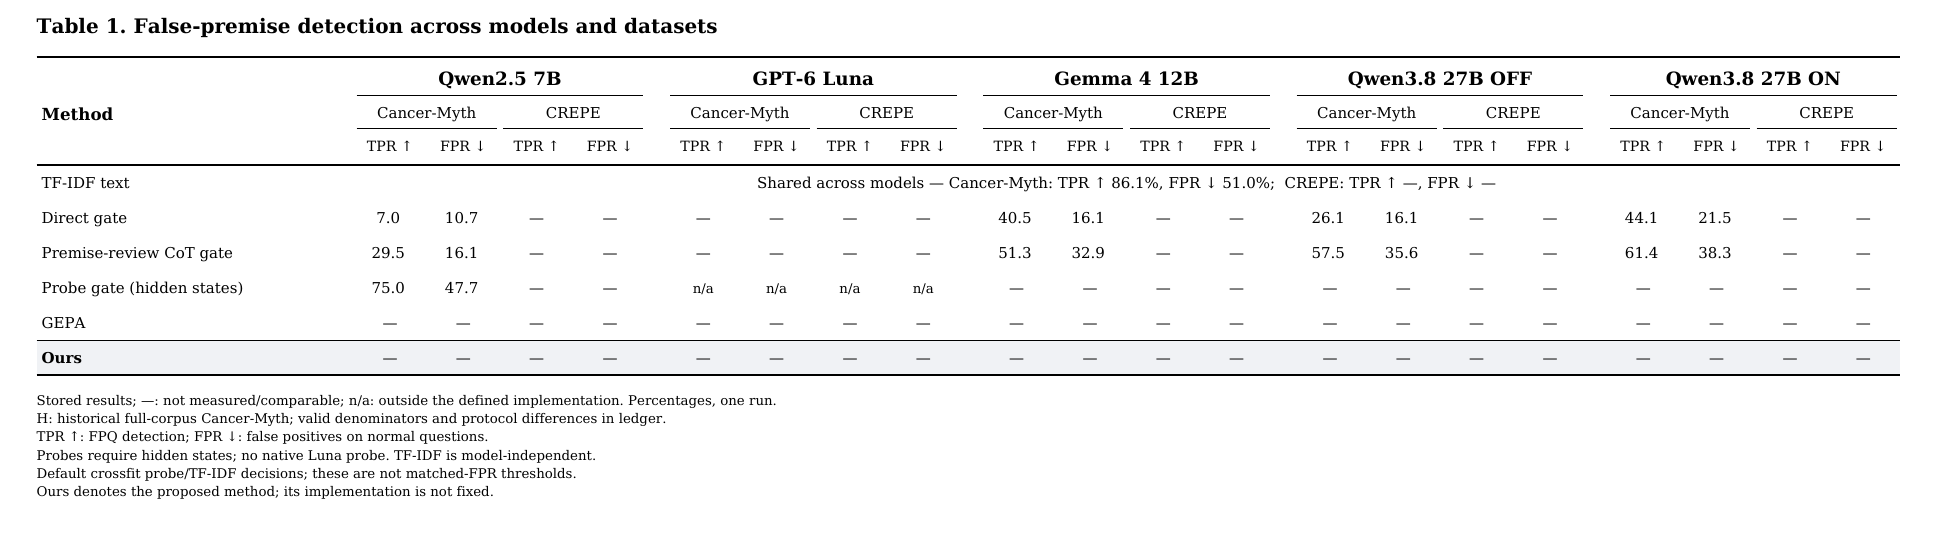
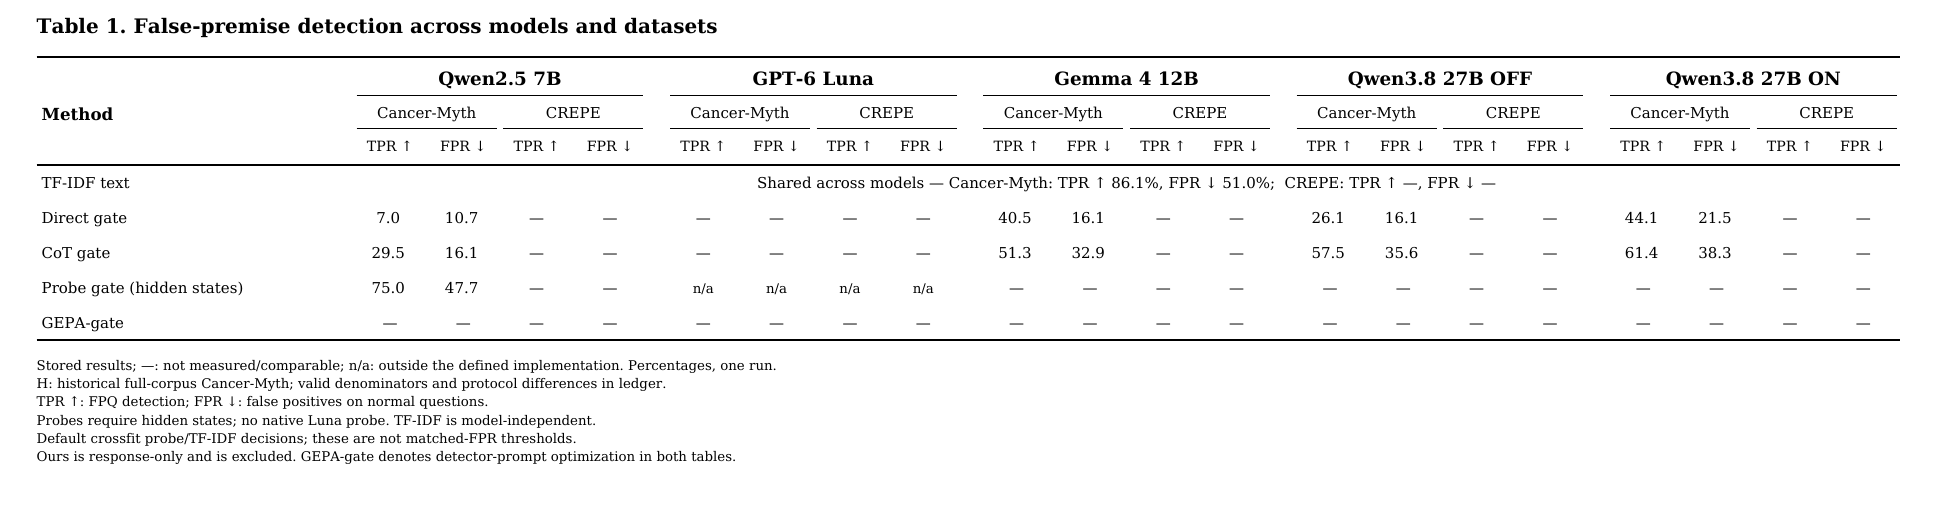
Align detection table roster and document grouped three-fold evaluation

diff --git a/docs/reviews/paper_tables_2026-10-06/table1.tex b/docs/reviews/paper_tables_2026-10-06/table1.tex
@@ -12,13 +12,11 @@
 \midrule
 TF-IDF text & \multicolumn{20}{c}{Shared across models \textemdash Cancer-Myth: TPR $\uparrow$ 86.1\%, FPR $\downarrow$ 51.0\%;  CREPE: TPR $\uparrow$ \textemdash, FPR $\downarrow$ \textemdash} \\
 Direct gate & 7.0 & 10.7 & \textemdash & \textemdash & \textemdash & \textemdash & \textemdash & \textemdash & 40.5 & 16.1 & \textemdash & \textemdash & 26.1 & 16.1 & \textemdash & \textemdash & 44.1 & 21.5 & \textemdash & \textemdash \\
-Premise-review CoT gate & 29.5 & 16.1 & \textemdash & \textemdash & \textemdash & \textemdash & \textemdash & \textemdash & 51.3 & 32.9 & \textemdash & \textemdash & 57.5 & 35.6 & \textemdash & \textemdash & 61.4 & 38.3 & \textemdash & \textemdash \\
+CoT gate & 29.5 & 16.1 & \textemdash & \textemdash & \textemdash & \textemdash & \textemdash & \textemdash & 51.3 & 32.9 & \textemdash & \textemdash & 57.5 & 35.6 & \textemdash & \textemdash & 61.4 & 38.3 & \textemdash & \textemdash \\
 Probe gate (hidden states) & 75.0 & 47.7 & \textemdash & \textemdash & n/a & n/a & n/a & n/a & \textemdash & \textemdash & \textemdash & \textemdash & \textemdash & \textemdash & \textemdash & \textemdash & \textemdash & \textemdash & \textemdash & \textemdash \\
-GEPA & \textemdash & \textemdash & \textemdash & \textemdash & \textemdash & \textemdash & \textemdash & \textemdash & \textemdash & \textemdash & \textemdash & \textemdash & \textemdash & \textemdash & \textemdash & \textemdash & \textemdash & \textemdash & \textemdash & \textemdash \\
-\midrule
-\textbf{Ours} & \textemdash & \textemdash & \textemdash & \textemdash & \textemdash & \textemdash & \textemdash & \textemdash & \textemdash & \textemdash & \textemdash & \textemdash & \textemdash & \textemdash & \textemdash & \textemdash & \textemdash & \textemdash & \textemdash & \textemdash \\
+GEPA-gate & \textemdash & \textemdash & \textemdash & \textemdash & \textemdash & \textemdash & \textemdash & \textemdash & \textemdash & \textemdash & \textemdash & \textemdash & \textemdash & \textemdash & \textemdash & \textemdash & \textemdash & \textemdash & \textemdash & \textemdash \\
 \bottomrule
 \end{tabular}}
-\caption{Table 1. False-premise detection across models and datasets. Stored results; \textemdash: not measured/comparable; n/a: outside the defined implementation. Percentages, one run. H: historical full-corpus Cancer-Myth; valid denominators and protocol differences in ledger. TPR $\uparrow$: FPQ detection; FPR $\downarrow$: false positives on normal questions. Probes require hidden states; no native Luna probe. TF-IDF is model-independent. Default crossfit probe/TF-IDF decisions; these are not matched-FPR thresholds. Ours denotes the proposed method; its implementation is not fixed.}
+\caption{Table 1. False-premise detection across models and datasets. Stored results; \textemdash: not measured/comparable; n/a: outside the defined implementation. Percentages, one run. H: historical full-corpus Cancer-Myth; valid denominators and protocol differences in ledger. TPR $\uparrow$: FPQ detection; FPR $\downarrow$: false positives on normal questions. Probes require hidden states; no native Luna probe. TF-IDF is model-independent. Default crossfit probe/TF-IDF decisions; these are not matched-FPR thresholds. Ours is response-only and is excluded. GEPA-gate denotes detector-prompt optimization in both tables.}
 \label{tab:table1}
 \end{table*}

diff --git a/docs/reviews/paper_tables_2026-10-06/table2.tex b/docs/reviews/paper_tables_2026-10-06/table2.tex
@@ -26,6 +26,6 @@ GEPA (both stages) & \textemdash & \textemdash & \textemdash & \textemdash & \te
 \textbf{Ours} & \textemdash & \textemdash & \textemdash & \textemdash & \textemdash & \textemdash & \textemdash & \textemdash & \textemdash & \textemdash & \textemdash & \textemdash & \textemdash & \textemdash & \textemdash & \textemdash & \textemdash & \textemdash & \textemdash & \textemdash \\
 \bottomrule
 \end{tabular}}
-\caption{Table 2. False-premise correction and normal-question preservation. Stored measurements, not completed common-fold results. Planned evaluation pools held-out predictions from common grouped folds. Cancer-Myth: public-model entries use the historical full corpus (up to 583 FPQ / 149 NFP); Luna entries use 99 FPQ / 100 NFP. CREPE: Luna uses 751 FPQ / 2,253 TPQ. Public-model and Luna runs use different judges; see README and result\_sources.md. Direct / CoT gate values use historical label-only routing. They do not measure the newly proposed token-score / review-passing protocol. GEPA values are stored direct-answer test results, not fold reruns. GEPA-gate, both-stage GEPA and Ours remain unmeasured here. All values are score >= 4 (\%), from single runs. Dash = no compatible measurement; n/a = native hidden probe unavailable.}
+\caption{Table 2. False-premise correction and normal-question preservation. Stored measurements, not completed 3-fold results. Planned Cancer-Myth: grouped 3-fold OOF; CREPE: fixed train/dev/test. Cancer-Myth: public-model entries use the historical full corpus (up to 583 FPQ / 149 NFP); Luna entries use 99 FPQ / 100 NFP. CREPE: Luna uses 751 FPQ / 2,253 TPQ. Public-model and Luna runs use different judges; see README and result\_sources.md. Direct / CoT gate values use historical label-only routing. They do not measure the newly proposed token-score / review-passing protocol. GEPA values are stored direct-answer test results, not fold reruns. GEPA-gate, both-stage GEPA and Ours remain unmeasured here. All values are score >= 4 (\%), from single runs. Dash = no compatible measurement; n/a = native hidden probe unavailable.}
 \label{tab:table2}
 \end{table*}
